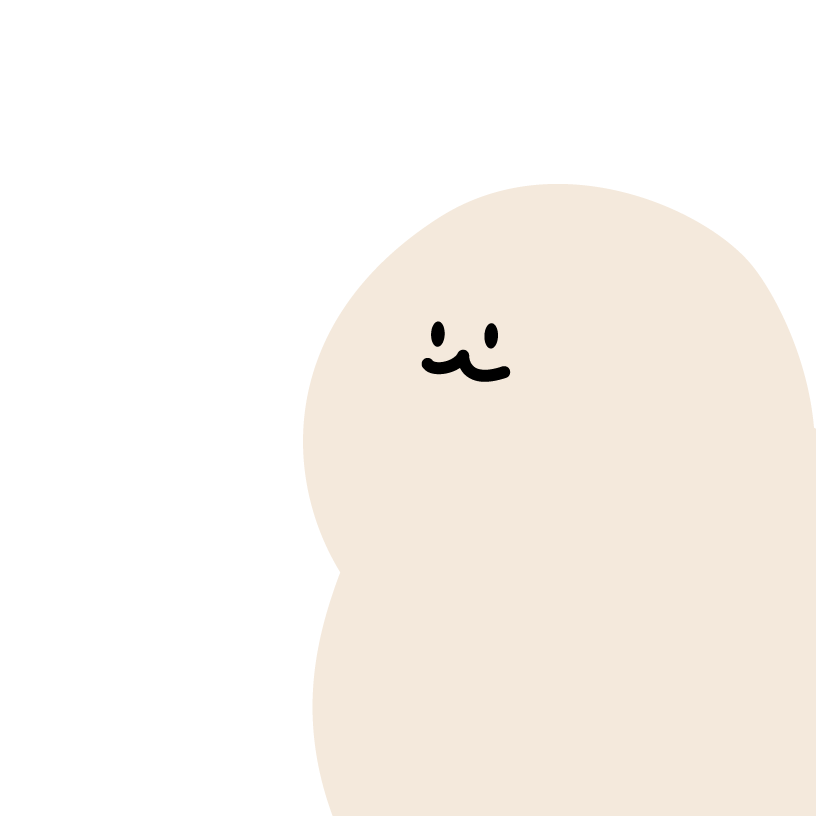
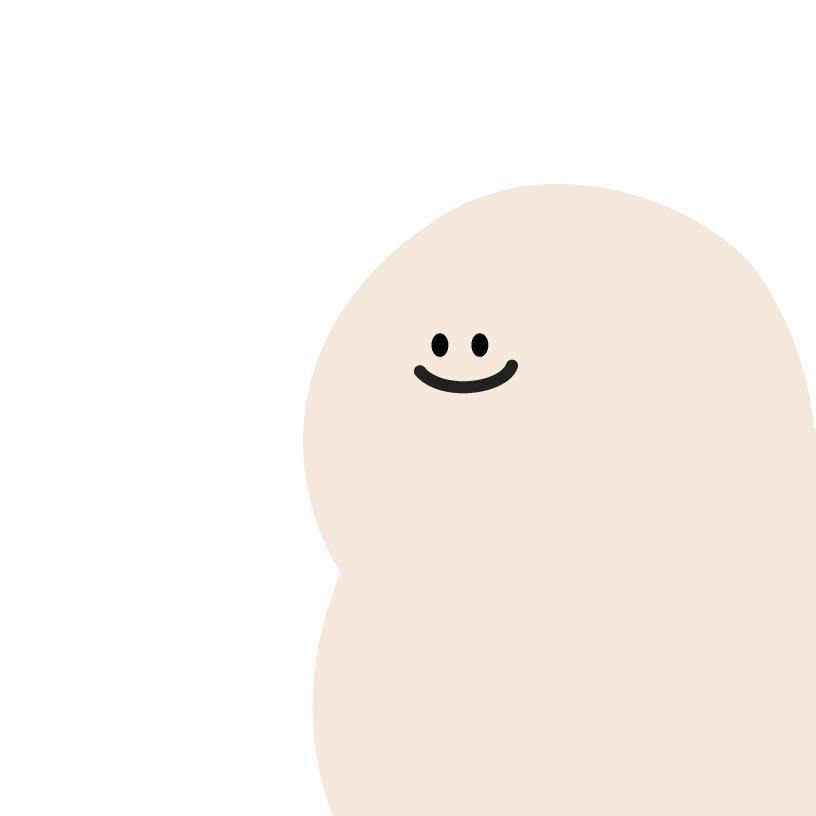
Fix thread box default joraeng image

Changed region(s): [[0.4902, 0.3983, 0.6434, 0.4902]]

diff --git a/src/pages/box/ThreadBox.js b/src/pages/box/ThreadBox.js
@@ -2,6 +2,7 @@ import React, { useState } from 'react';
 import styled from 'styled-components';
 import Moment from 'moment';
 
+import placeholderImage from '../../assets/joraeng/defaultjoraeng.png';
 import deleteIcon from '../../assets/icon/deleteicon.png';
 
 const Wrapper = styled.div`
@@ -176,7 +177,10 @@ const ThreadBox = ({ record, setModal }) => {
       </TitleBox>
       <ContentBox>
         <CharacterBox>
-          <CharacterImg src={record.image} alt="" />
+          <CharacterImg
+            src={record.image === null ? placeholderImage : record.image}
+            alt=""
+          />
         </CharacterBox>
         <Detail disabled value={record.detail} />
       </ContentBox>
